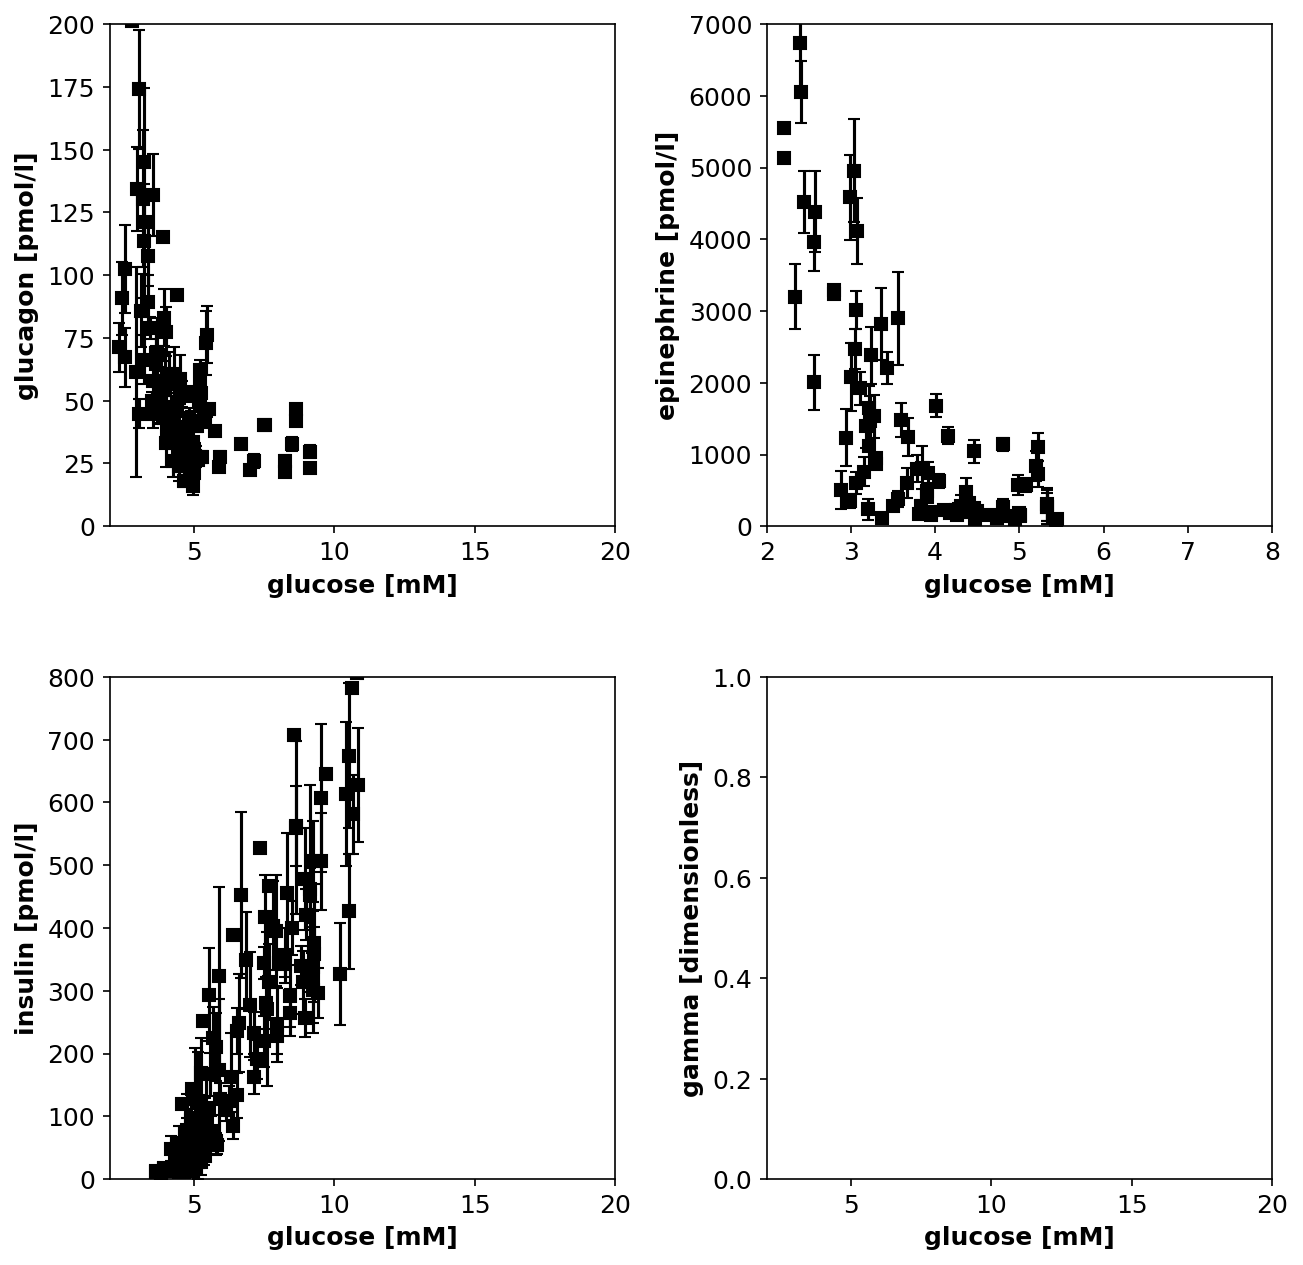
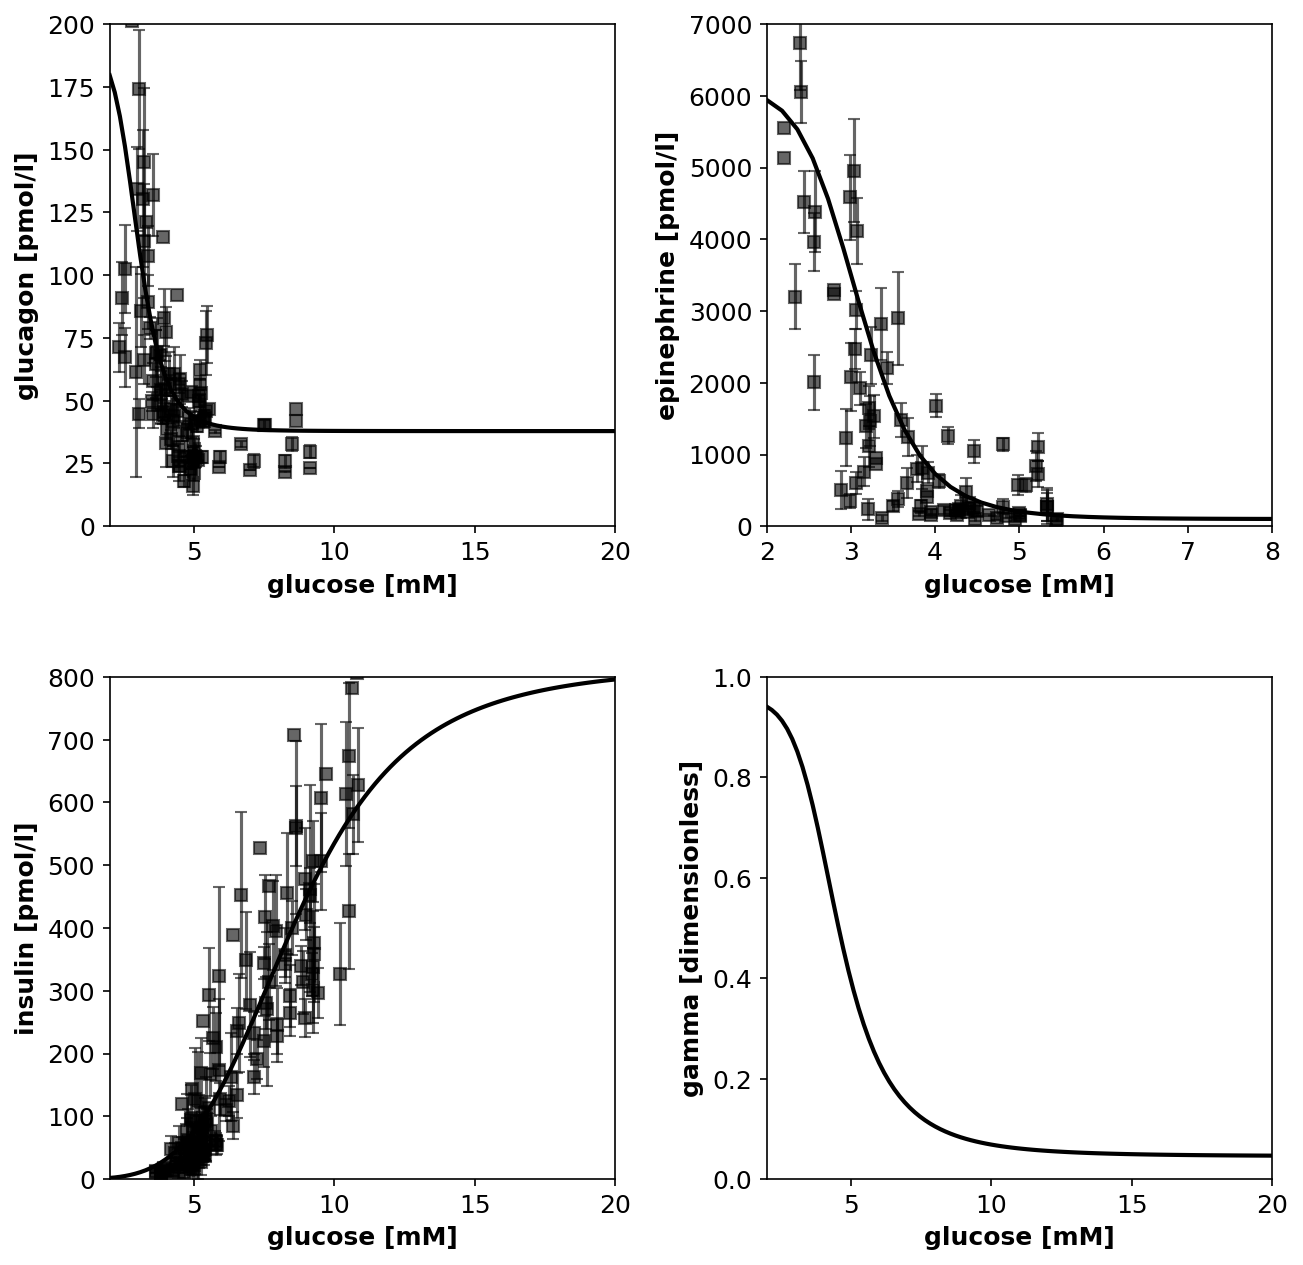
dose-response curves simulated

diff --git a/pyexsimo/experiments/dose_response.py b/pyexsimo/experiments/dose_response.py
@@ -1,11 +1,14 @@
 from typing import Dict
 from matplotlib.pyplot import Figure
+import numpy as np
+import pandas as pd
 
 from sbmlsim.experiment import SimulationExperiment
 from sbmlsim.data import DataSet
-from sbmlsim.timecourse import Timecourse, TimecourseSim
+from sbmlsim.timecourse import Timecourse, TimecourseSim, TimecourseScan
 from sbmlsim.plotting_matplotlib import add_data, add_line, plt
 from sbmlsim.pkpd import pkpd
+
 
 
 class DoseResponseExperiment(SimulationExperiment):
@@ -48,15 +51,8 @@ class DoseResponseExperiment(SimulationExperiment):
                 df.loc[df.reference.isin(glu_clamp_studies), 'mean'] = insulin_supression * df[df.reference.isin(glu_clamp_studies)]['mean']
                 df.loc[df.reference.isin(glu_clamp_studies), 'se'] = insulin_supression * df[df.reference.isin(glu_clamp_studies)]['se']
 
-
             elif hormone_key == "Insulin":
                 df = df[df.reference.isin(ins_normal_studies)]
-
-            # correct glucagon data for insulin_suppression
-            # insulin_supression = 3.4
-            # glu_corrected = [
-            #
-            # ]
 
             udict = {
                 'glc': df["glc_unit"].unique()[0],
@@ -65,6 +61,19 @@ class DoseResponseExperiment(SimulationExperiment):
             dsets[hormone_key.lower()] = DataSet.from_df(df, udict=udict, ureg=self.ureg)
 
         return dsets
+
+    @property
+    def scans(self) -> Dict[str, TimecourseScan]:
+        Q_ = self.ureg.Quantity
+        glc_scan = TimecourseScan(
+            tcsim=TimecourseSim([
+                Timecourse(start=0, end=1, steps=1, changes={})
+            ]),
+            scan={'[glc_ext]': Q_(np.linspace(2, 20, num=100), 'mM')},
+        )
+        return {
+            "glc_scan": glc_scan
+        }
 
     @property
     def simulations(self) -> Dict[str, TimecourseSim]:
@@ -81,21 +90,43 @@ class DoseResponseExperiment(SimulationExperiment):
         f.subplots_adjust(wspace=.3, hspace=.3)
         axes = (ax1, ax2, ax3, ax4)
 
-        # simulation
-        '''
-        ax1.plot(glc_ext_vec, dose_response['glu'], color="black")
-        ax2.plot(glc_ext_vec, dose_response['epi'], color="black",
-                 linewidth=2.0)
-        ax3.plot(glc_ext_vec, dose_response['ins'], color="black",
-                 linewidth=2.0)
-        ax4.plot(glc_ext_vec, dose_response['gamma'], color="black",
-                 linewidth=2.0)
-        '''
+        # simulation (process results)
+        tcscan = self.scans["glc_scan"]
+        glc_vec = tcscan.scan['[glc_ext]']
+        results = self.scan_results["glc_scan"]  # type: Result
+
+        # result vectors
+        dose_response = {k: list() for k in ["glu", "epi", "ins", "gamma"]}
+        for k, glc_ext in enumerate(glc_vec):
+            s = results.frames[k]
+            # store results
+            for key in dose_response:
+                value = s[key].values[0]  # initial value calculated
+                dose_response[key].append(value)
+
+        dose_response['[glc_ext]'] = glc_vec
+        df = pd.DataFrame(dose_response)
+        dset = DataSet.from_df(df, udict=self.udict, ureg=self.ureg)
+        kwargs = {
+            'linewidth': 2,
+            'linestyle': '-',
+            'marker': 'None',
+            'color': 'black'
+        }
+        add_data(ax1, dset, xid="[glc_ext]", yid="glu",
+                 xunit=xunit, yunit=yunit_hormone, **kwargs)
+        add_data(ax2, dset, xid="[glc_ext]", yid="epi",
+                 xunit=xunit, yunit=yunit_hormone, **kwargs)
+        add_data(ax3, dset, xid="[glc_ext]", yid="ins",
+                 xunit=xunit, yunit=yunit_hormone, **kwargs)
+        add_data(ax4, dset, xid="[glc_ext]", yid="gamma",
+                 xunit=xunit, yunit=yunit_gamma, **kwargs)
 
         # experimental data
         kwargs = {
             'color': "black",
             'linestyle': "None",
+            'alpha': 0.6,
         }
         add_data(ax1, self.datasets["glucagon"], xid="glc", yid="mean", yid_se="se",
                  xunit=xunit, yunit=yunit_hormone, label="Glucagon", **kwargs)

diff --git a/pyexsimo/experiments/hgp_gng_ss.py b/pyexsimo/experiments/hgp_gng_ss.py
@@ -1,0 +1,55 @@
+from typing import Dict
+from matplotlib.pyplot import Figure
+
+from sbmlsim.experiment import SimulationExperiment
+from sbmlsim.data import DataSet
+from sbmlsim.timecourse import Timecourse, TimecourseSim
+from sbmlsim.plotting_matplotlib import add_data, add_line, plt
+from sbmlsim.pkpd import pkpd
+
+
+class PathwayExperiment(SimulationExperiment):
+    @property
+    def datasets(self) -> Dict[str, DataSet]:
+        return {}
+
+    @property
+    def simulations(self) -> Dict[str, TimecourseSim]:
+
+        # TODO: model change, constant boundary
+        # TODO: 2D parameter scan
+
+        glc_ext_vec = np.linspace(2, 14, num=40)
+        glyglc_vec = np.linspace(0, 500, num=40)
+
+        HGP = np.zeros(shape=(glc_ext_vec.size, glyglc_vec.size))
+        GNG = np.zeros(shape=(glc_ext_vec.size, glyglc_vec.size))
+        GLY = np.zeros(shape=(glc_ext_vec.size, glyglc_vec.size))
+
+        print(r2.timeCourseSelections)
+        Nt = 10
+
+        results = []
+
+        for p, glc_ext in enumerate(glc_ext_vec):
+            for q, glyglc in enumerate(glyglc_vec):
+                r2.resetAll()
+                r2.resetToOrigin()
+                r2.setValue('[glyglc]', glyglc)  # [mM]
+                r2.setValue('[glc_ext]', glc_ext)  # [mM]
+
+                s = r2.simulate(0, 1000, Nt)
+                s = pd.DataFrame(s, columns=s.colnames)
+                HGP[p, q] = s.HGP[Nt - 1]
+                GNG[p, q] = s.GNG[Nt - 1]
+                GLY[p, q] = s.GLY[Nt - 1]
+                results.append(s)
+
+        return {}
+
+    @property
+    def figures(self) -> Dict[str, Figure]:
+
+
+        return {
+        }

diff --git a/pyexsimo/experiments/glycogen.py b/pyexsimo/experiments/glycogen.py
@@ -1,5 +1,6 @@
 from typing import Dict
 from matplotlib.pyplot import Figure
+import numpy as np
 
 from sbmlsim.experiment import SimulationExperiment
 from sbmlsim.data import DataSet
@@ -24,6 +25,33 @@ class GlycogenExperiment(SimulationExperiment):
 
     @property
     def simulations(self) -> Dict[str, TimecourseSim]:
+        Q_ = self.ureg.Quantity
+
+        # --- glycogenolysis ---
+        glc_ext_GLY = np.linspace(3.6, 5.0, num=8)  # [mM]
+
+        for glc_ext in glc_ext_GLY:
+            # TODO: 1D parameter scan (time courses)
+            tc_sim = TimecourseSim([
+                Timecourse(start=0, end=65*60, steps=600,
+                           changes={
+                               '[glyglc]': Q_(500, "mM"),
+                               '[glc_ext]': Q_(glc_ext, "mM"),
+                           })
+            ])
+
+        # --- glycogen synthesis ---
+        glc_ext_GS = np.linspace(5.5, 8.0, num=6)  # [mM]
+        for glc_ext in glc_ext_GS:
+            tc_sim = TimecourseSim([
+                Timecourse(start=0, end=300, steps=600,
+                           changes={
+                               '[glyglc]': Q_(200, "mM"),
+                               '[glc_ext]': Q_(glc_ext, "mM"),
+                           })
+            ])
+
+
         return {}
 
     @property

diff --git a/pyexsimo/simulations.py b/pyexsimo/simulations.py
@@ -3,14 +3,14 @@ from sbmlsim.experiment import run_experiment
 
 from pyexsimo import MODEL_PATH, DATA_PATH, RESULT_PATH
 from pyexsimo.experiments.dose_response import DoseResponseExperiment
-from pyexsimo.experiments.hgp_gng_gly import PathwayExperiment
+from pyexsimo.experiments.hgp_gng import PathwayExperiment
 from pyexsimo.experiments.glycogen import GlycogenExperiment
 
 logger = logging.getLogger(__name__)
 
 if __name__ == "__main__":
     # exp_classes = [DoseResponseExperiment, PathwayExperiment, GlycogenExperiment]
-    exp_classes = [GlycogenExperiment]
+    exp_classes = [DoseResponseExperiment]
     for exp_class in exp_classes:
         run_experiment(exp_class,
                        output_path=RESULT_PATH,
